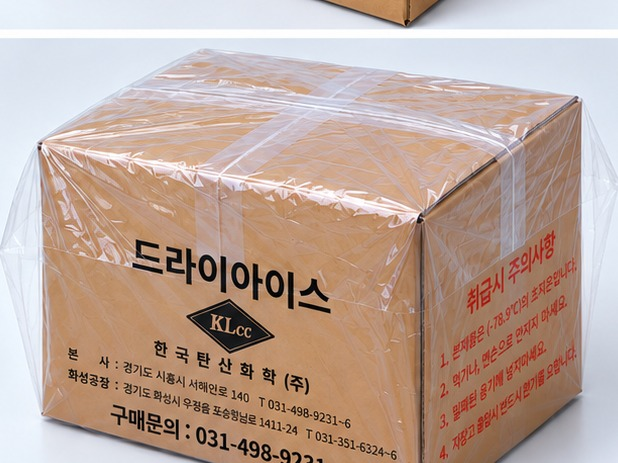
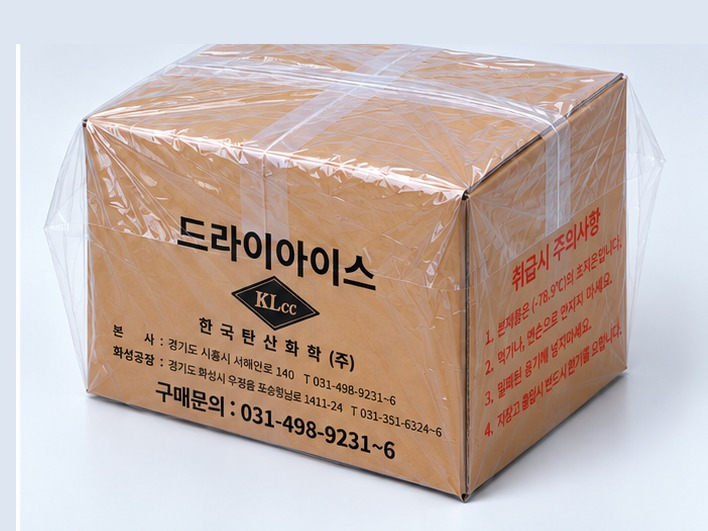
드라이아이스 블록 포장 프로세스 3·4번 사진: 박스 높이 기준 재크롭으로 상하단 전체 표시·이웃 박스 조각 제거. proc3?v=p, proc4?v=f

diff --git a/products-ice.html b/products-ice.html
@@ -415,8 +415,8 @@
                 <ol class="proc4">
                   <li class="proc4__step"><div class="proc4__media"><img src="assets/images/site/icespec/proc1.jpg?v=20260911b" alt="비닐 라이너 준비" loading="lazy"></div><b><span class="proc4__n">1</span>비닐 라이너 준비</b><p>박스 안에 비닐(라이너)을 깔아줍니다.</p></li>
                   <li class="proc4__step"><div class="proc4__media"><img src="assets/images/site/icespec/proc2.jpg?v=20260911e" alt="블록 담기" loading="lazy"></div><b><span class="proc4__n">2</span>블록 담기</b><p>드라이아이스 블록을 담습니다.</p></li>
-                  <li class="proc4__step"><div class="proc4__media"><img src="assets/images/site/icespec/proc3.jpg?v=20260911o" alt="박스 포장" loading="lazy"></div><b><span class="proc4__n">3</span>박스 포장</b><p>내용물이 담긴 박스를 밀봉하여 포장합니다.</p></li>
-                  <li class="proc4__step"><div class="proc4__media"><img src="assets/images/site/icespec/proc4.jpg?v=20260911e" alt="외부 비닐 포장" loading="lazy"></div><b><span class="proc4__n">4</span>외부 비닐 포장</b><p>외부 비닐로 한 번 더 포장하여 출고합니다.</p></li>
+                  <li class="proc4__step"><div class="proc4__media"><img src="assets/images/site/icespec/proc3.jpg?v=20260911p" alt="박스 포장" loading="lazy"></div><b><span class="proc4__n">3</span>박스 포장</b><p>내용물이 담긴 박스를 밀봉하여 포장합니다.</p></li>
+                  <li class="proc4__step"><div class="proc4__media"><img src="assets/images/site/icespec/proc4.jpg?v=20260911f" alt="외부 비닐 포장" loading="lazy"></div><b><span class="proc4__n">4</span>외부 비닐 포장</b><p>외부 비닐로 한 번 더 포장하여 출고합니다.</p></li>
                 </ol>
               </div>
             </div>
